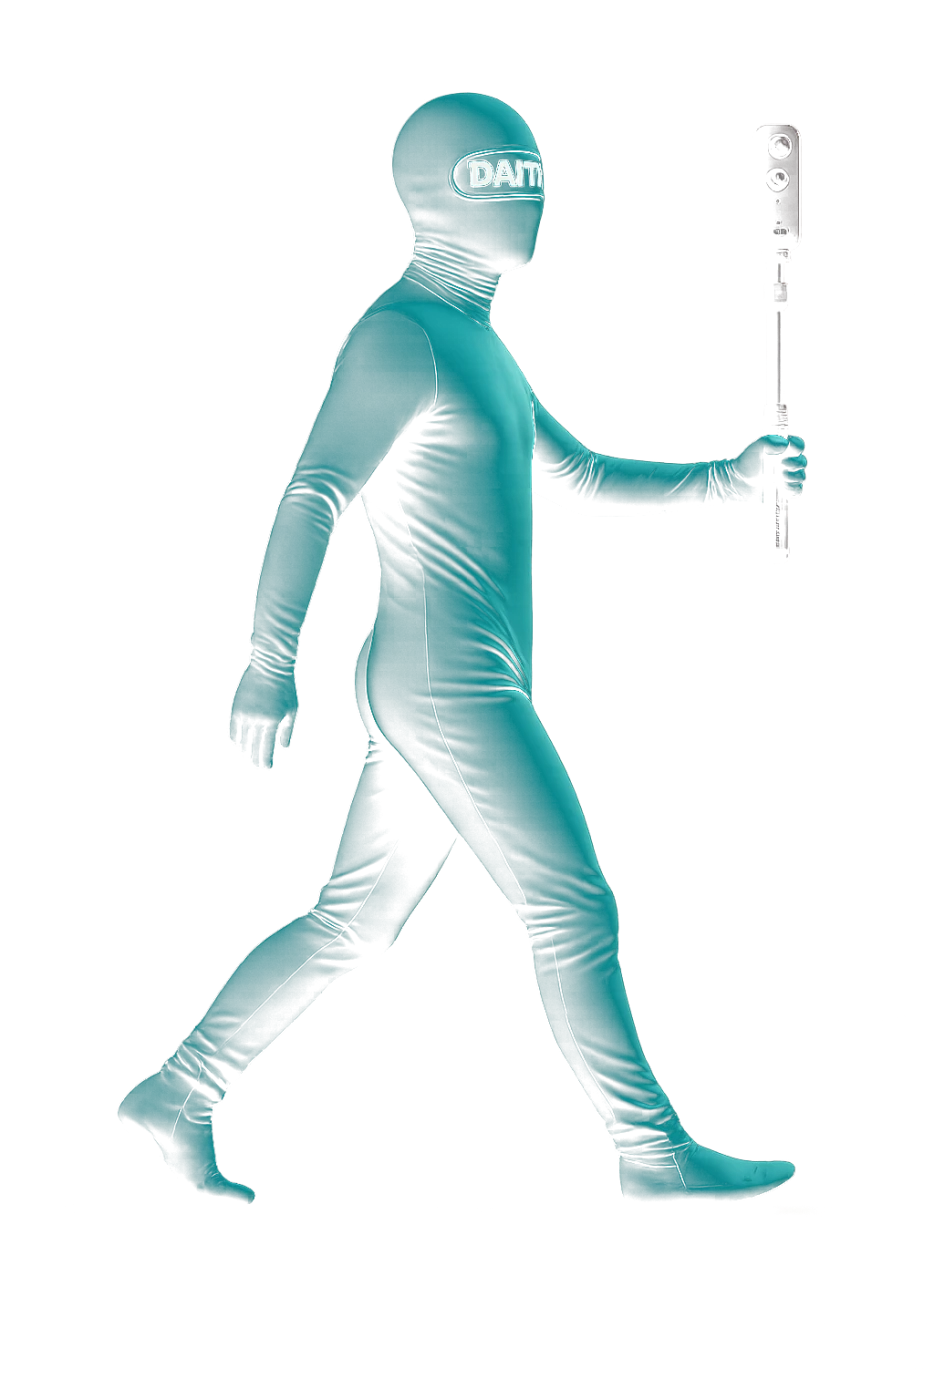
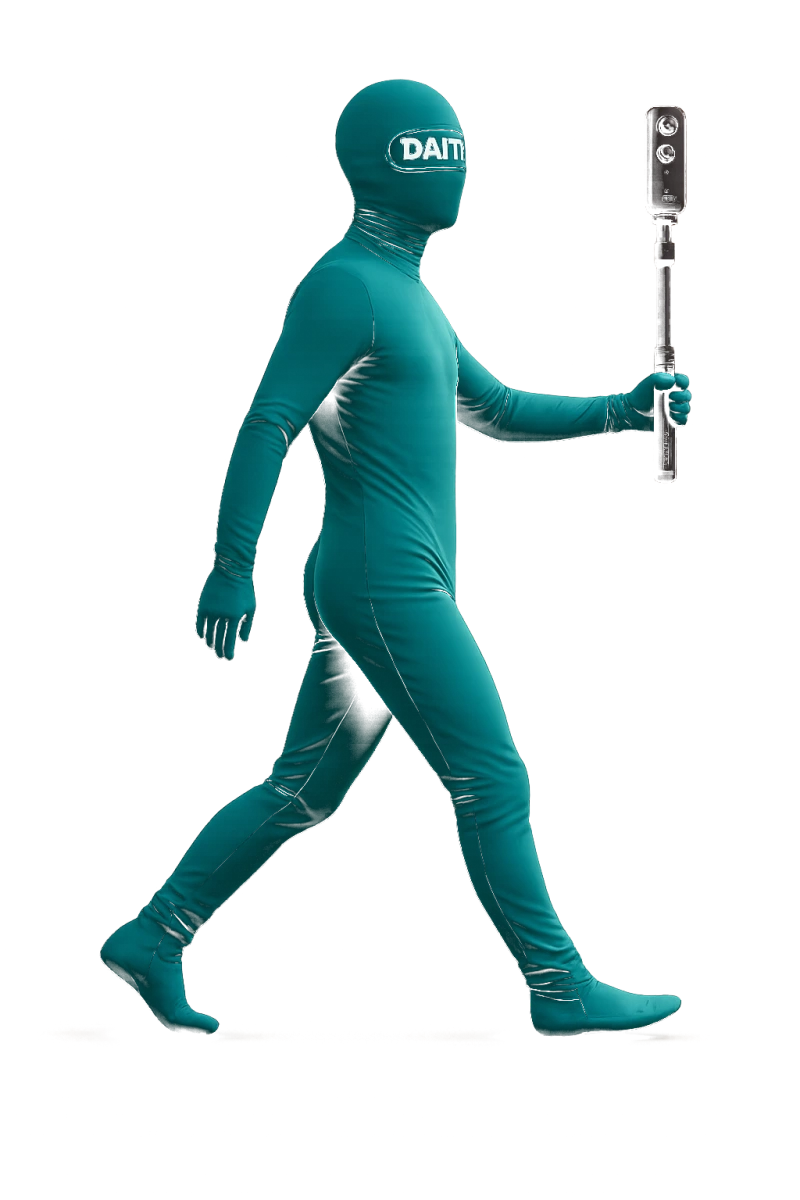
Walking mascot: fix scroll events, shrink, restore opacity
Three compounding bugs:

1. Scroll animation never fired — `body { overflow-x: hidden }` silently
   forces overflow-y: auto, making the body the scroll container. Window
   scroll events stopped firing, so my rAF-throttled listener never
   updated --walk. Moved overflow-x onto html so window scrolls again.

2. Mascot was washed-out — previous luma ramp (45→110) made the teal
   body only partially opaque on cream, reading as pale. Tightened to
   20→45: everything under 20 is transparent, everything over 45 is
   fully opaque, no midtone bleed. Smaller file too (128 KB).

3. Height 72vh → 43vh (~40% smaller) so the mascot reads as a character
   walking across a landscape rather than dominating the section.
   Mobile fallback scaled to match.

Changed region(s): [[0.125, 0.0617, 0.8438, 0.8633], [0.5625, 0.0617, 0.875, 0.4008]]

diff --git a/website/src/app/globals.css b/website/src/app/globals.css
@@ -13,13 +13,15 @@
 
 *, *::before, *::after { box-sizing: border-box; }
 html, body { margin: 0; padding: 0; }
-html { scroll-behavior: smooth; }
+html {
+  scroll-behavior: smooth;
+  overflow-x: hidden;
+}
 body {
   background: var(--cream);
   color: var(--ink);
   font-family: 'Inter', sans-serif;
   -webkit-font-smoothing: antialiased;
-  overflow-x: hidden;
 }
 a { color: inherit; text-decoration: none; }
 
@@ -611,10 +613,10 @@ footer { background: var(--ink); color: var(--cream); padding: 80px 56px 32px; }
 }
 .walk__man {
   --walk: -15vw;
-  height: 72vh;
+  height: 43vh;
   transform: translate3d(var(--walk), 0, 0);
   will-change: transform;
-  margin-bottom: 8vh;
+  margin-bottom: 10vh;
   user-select: none;
   pointer-events: none;
 }
@@ -648,7 +650,7 @@ footer { background: var(--ink); color: var(--cream); padding: 80px 56px 32px; }
   .walk { height: 140vh; }
   .walk__caption { left: 24px; top: 8vh; }
   .walk__man {
-    height: 62vh;
+    height: 38vh;
     animation: walkOnMobile 14s linear infinite;
   }
   @keyframes walkOnMobile {
